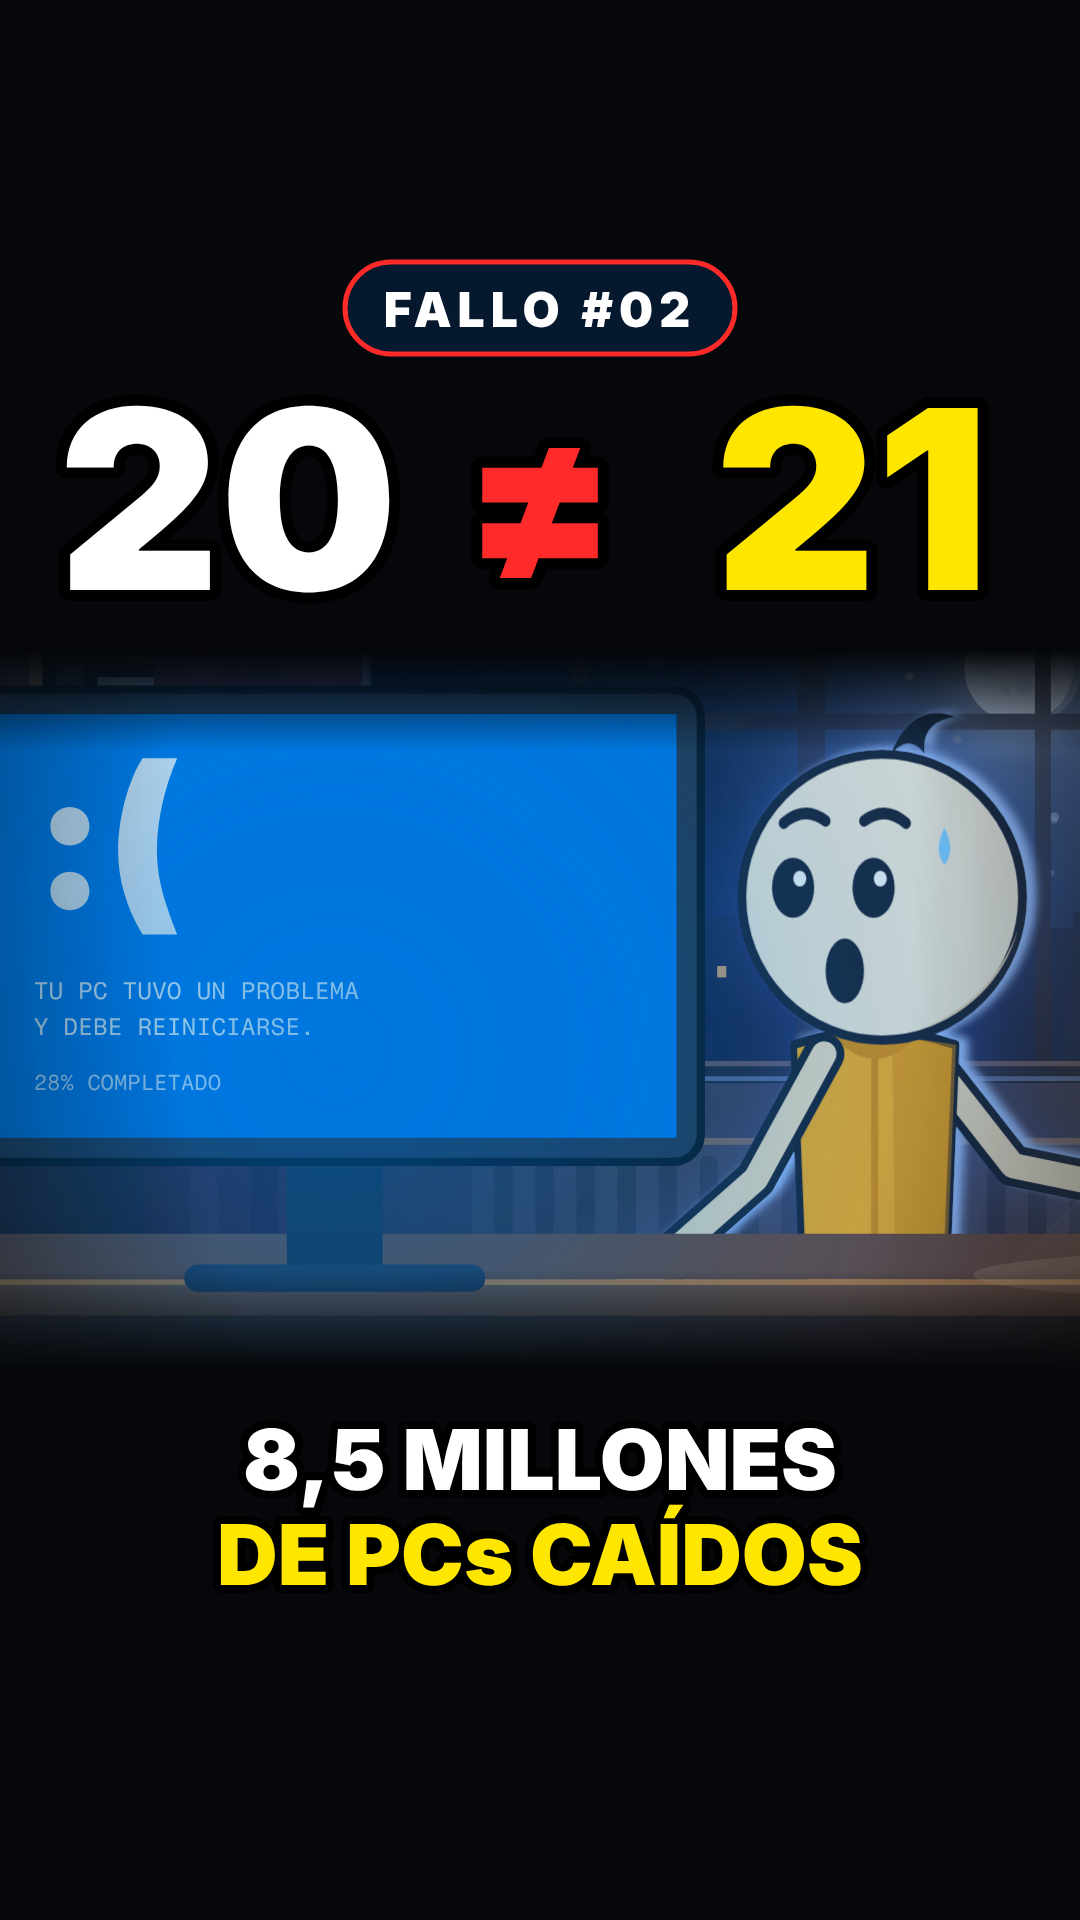
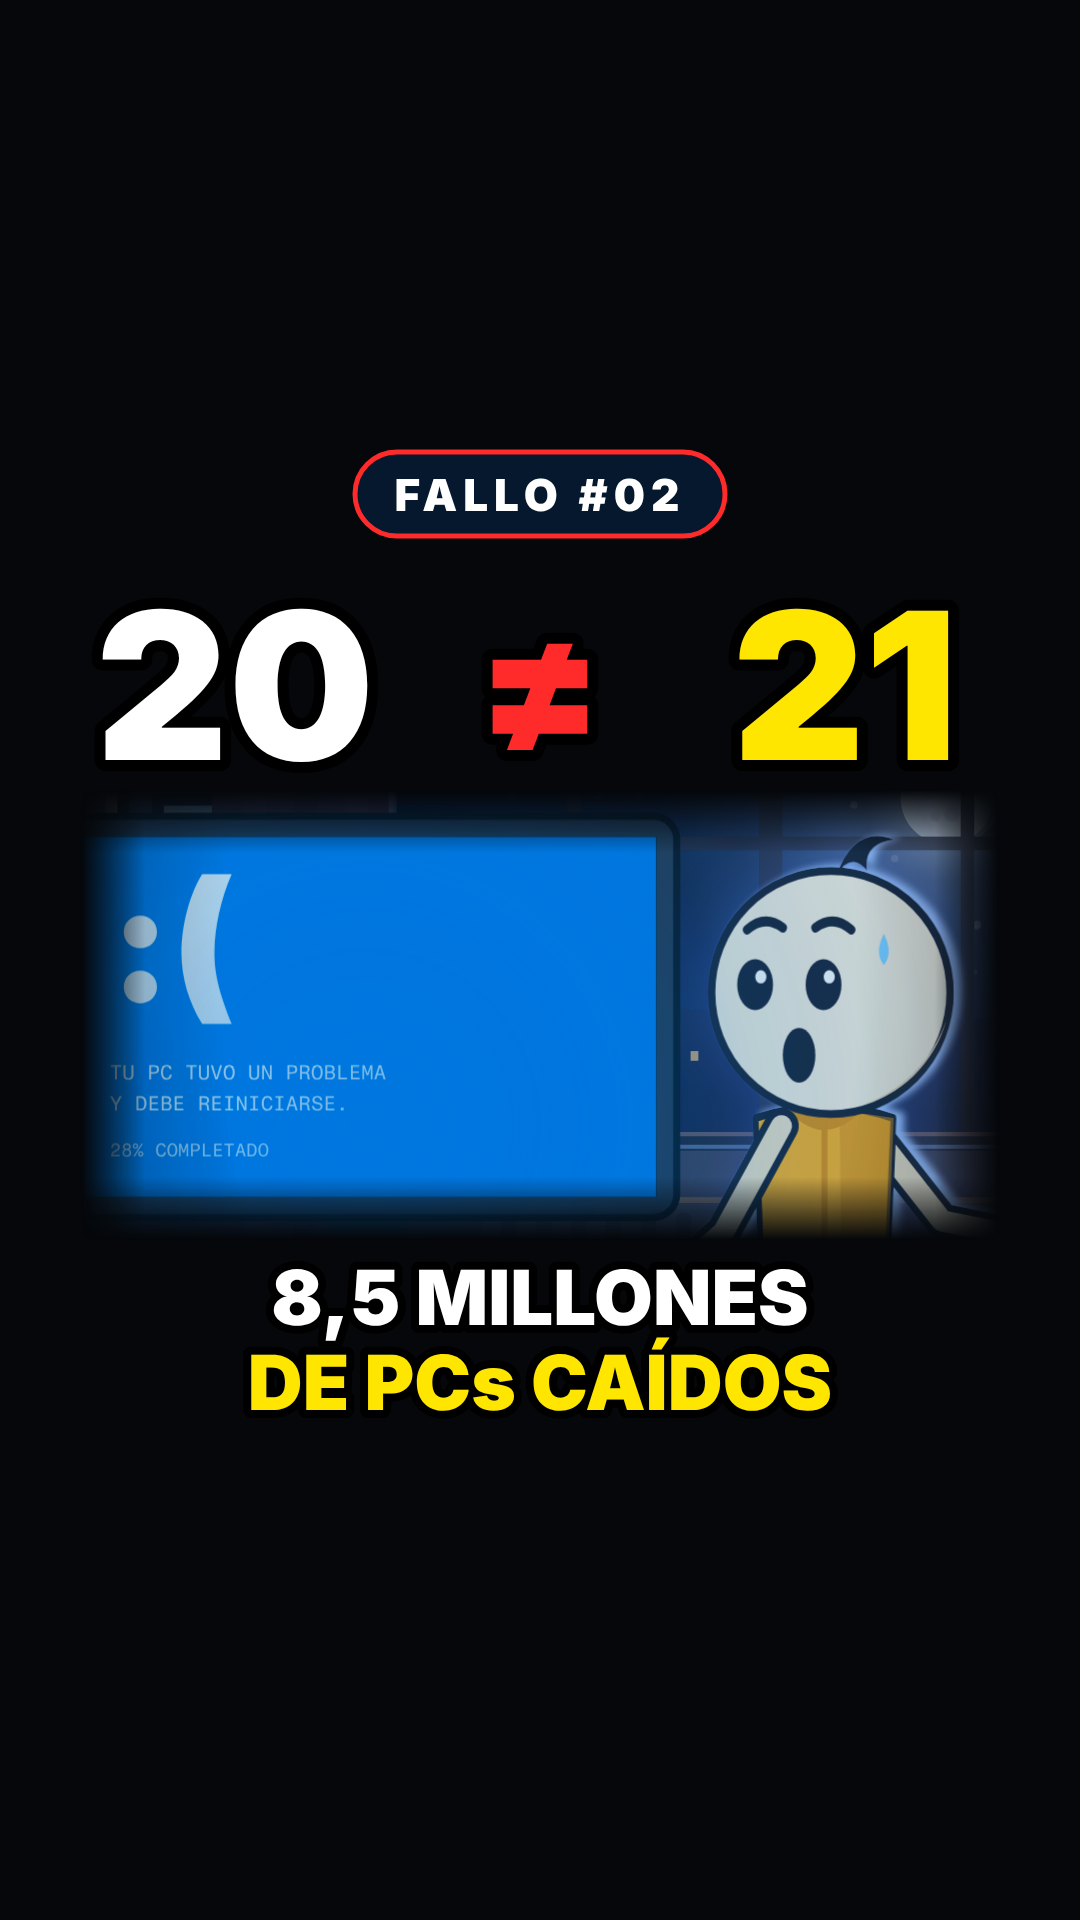
Fallo #02 thumbnail: everything inside the central square for the 1:1 Instagram crop
Claude-Session: https://claude.ai/code/session_01UvSALjBVpBVemw6p1kxsgc

diff --git a/what-if-studio/src/fallo02/Thumb.tsx b/what-if-studio/src/fallo02/Thumb.tsx
@@ -4,30 +4,32 @@ import { HEAVY } from '../components/motion';
 import { Recreation } from '../components/fallo02/Recreate';
 
 // Thumbnail for Fallo #02, for the TikTok and Instagram grids (3:4 centre crop: everything sits between y 240 and y 1680).
+// Everything sits inside the central square (y 420 to 1500), so the 1:1 crop of the Instagram feed keeps it all too.
 // The blue-screen scene from the film in a soft window, "20 != 21" above it, the hook figure below.
 //   npx remotion still src/index.ts Fallo02Thumb out/fallo02/thumb.png
-const WIN_TOP = 650;
-const WIN_H = 720;
-const SCENE_SHIFT = -650; // which part of the 1920 px scene shows in the window
+const WIN_TOP = 790;
+const WIN_H = 450;
+const SCENE_SCALE = 0.85;
+const SCENE_SHIFT = -560; // which part of the 1920 px scene shows in the window
 
 export const Fallo02Thumb: React.FC = () => (
   <AbsoluteFill style={{ background: '#05070A' }}>
     <div style={{ position: 'absolute', left: 0, top: WIN_TOP, width: 1080, height: WIN_H, overflow: 'hidden', WebkitMaskImage: 'linear-gradient(180deg, transparent 0, #000 14%, #000 86%, transparent 100%)' }}>
-      <div style={{ position: 'absolute', left: 0, top: SCENE_SHIFT, width: 1080, height: 1920, filter: 'saturate(1.2) brightness(1.08)' }}>
+      <div style={{ position: 'absolute', left: (1080 - 1080 * SCENE_SCALE) / 2, top: SCENE_SHIFT, width: 1080, height: 1920, transform: `scale(${SCENE_SCALE})`, transformOrigin: 'top left', WebkitMaskImage: 'linear-gradient(90deg, transparent 0, #000 7%, #000 93%, transparent 100%)', filter: 'saturate(1.2) brightness(1.08)' }}>
         <Recreation t={2.35} f={141} fps={60} dur={2.695} variant="bsod" mark={() => Number.NaN} />
       </div>
     </div>
     <svg width={1080} height={1920} viewBox="0 0 1080 1920" textAnchor="middle" fontFamily={HEAVY} fontWeight={900} style={{ position: 'absolute', inset: 0 }}>
-      <rect x={345} y={262} width={390} height={92} rx={46} fill="#05182E" stroke="#FF2A2A" strokeWidth={5} />
-      <text x={540} y={327} fontSize={48} fill="#FFF" letterSpacing={6}>FALLO #02</text>
+      <rect x={355} y={452} width={370} height={84} rx={42} fill="#05182E" stroke="#FF2A2A" strokeWidth={5} />
+      <text x={540} y={511} fontSize={44} fill="#FFF" letterSpacing={6}>FALLO #02</text>
       <g paintOrder="stroke" stroke="#000" strokeWidth={22} strokeLinejoin="round">
-        <text x={228} y={590} fontSize={250} fill="#FFF">20</text>
-        <text x={540} y={578} fontSize={220} fill="#FF2A2A">≠</text>
-        <text x={852} y={590} fontSize={250} fill="#FFE600">21</text>
+        <text x={235} y={760} fontSize={205} fill="#FFF">20</text>
+        <text x={540} y={750} fontSize={180} fill="#FF2A2A">≠</text>
+        <text x={845} y={760} fontSize={205} fill="#FFE600">21</text>
       </g>
       <g paintOrder="stroke" stroke="#000" strokeWidth={16} strokeLinejoin="round">
-        <text x={540} y={1490} fontSize={84} fill="#FFF">8,5 MILLONES</text>
-        <text x={540} y={1585} fontSize={84} fill="#FFE600">DE PCs CAÍDOS</text>
+        <text x={540} y={1325} fontSize={76} fill="#FFF">8,5 MILLONES</text>
+        <text x={540} y={1410} fontSize={76} fill="#FFE600">DE PCs CAÍDOS</text>
       </g>
     </svg>
   </AbsoluteFill>
